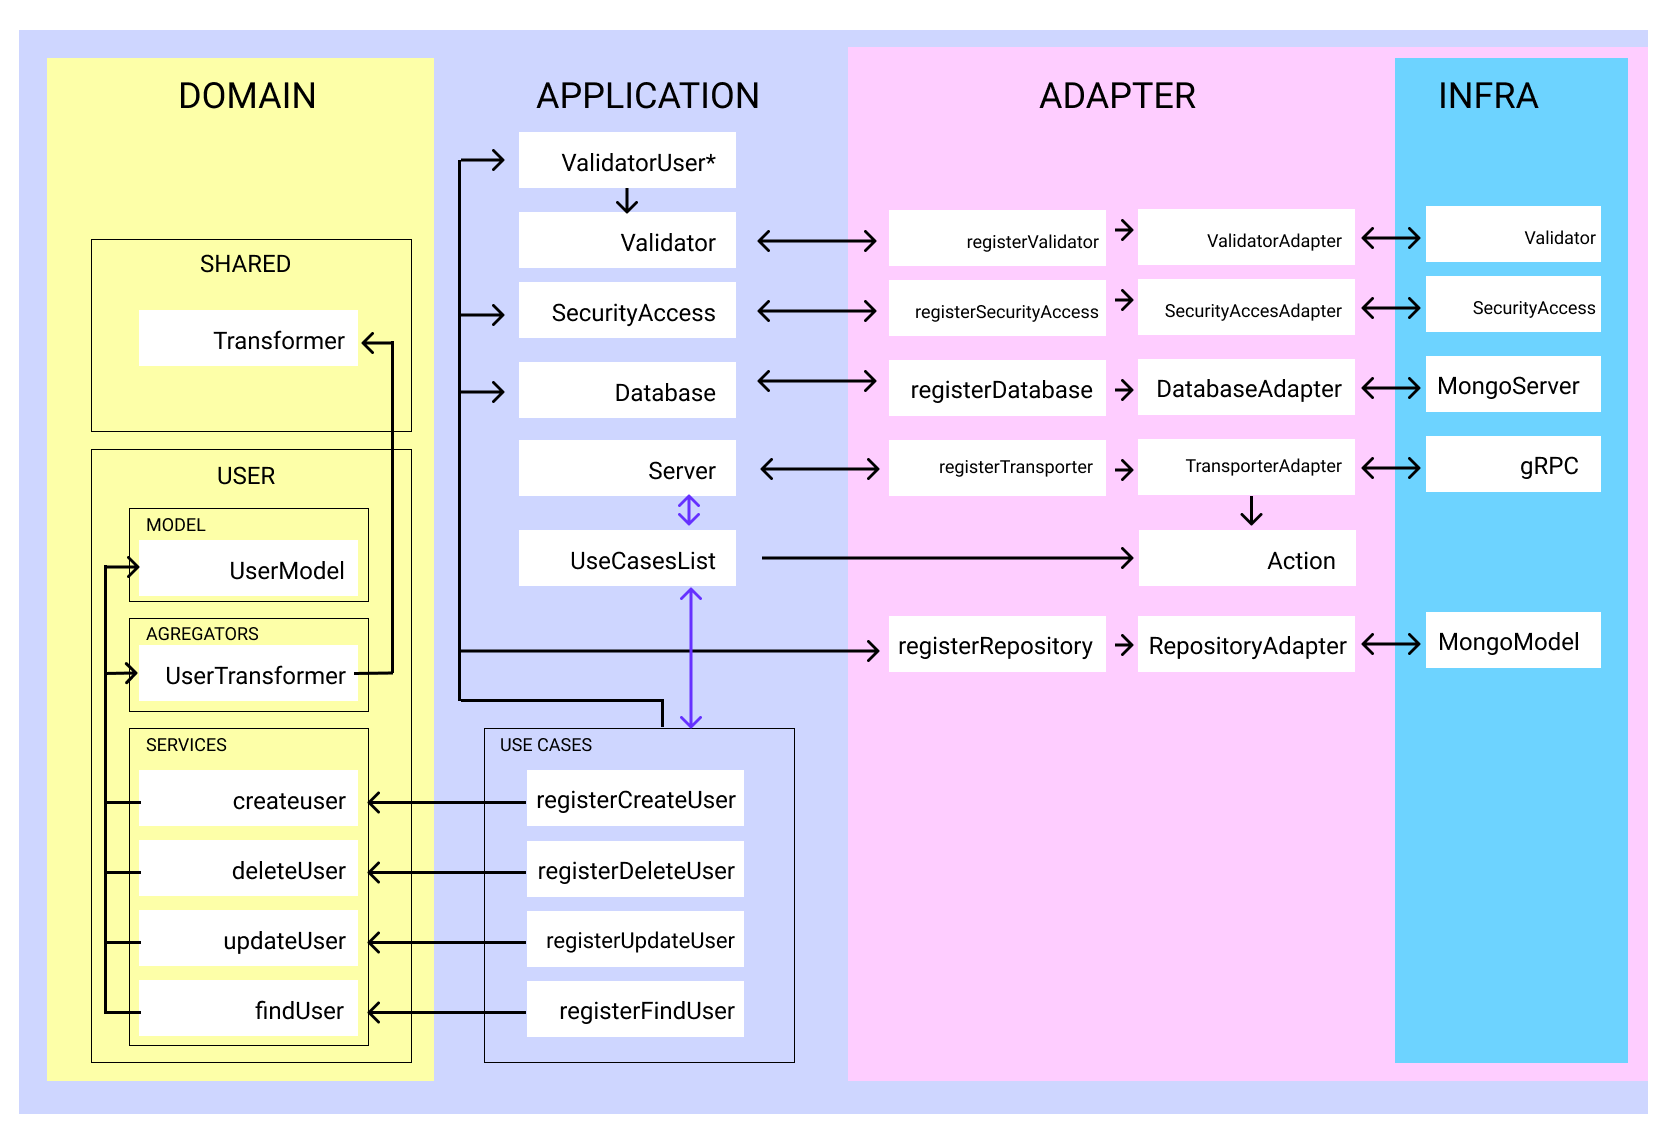
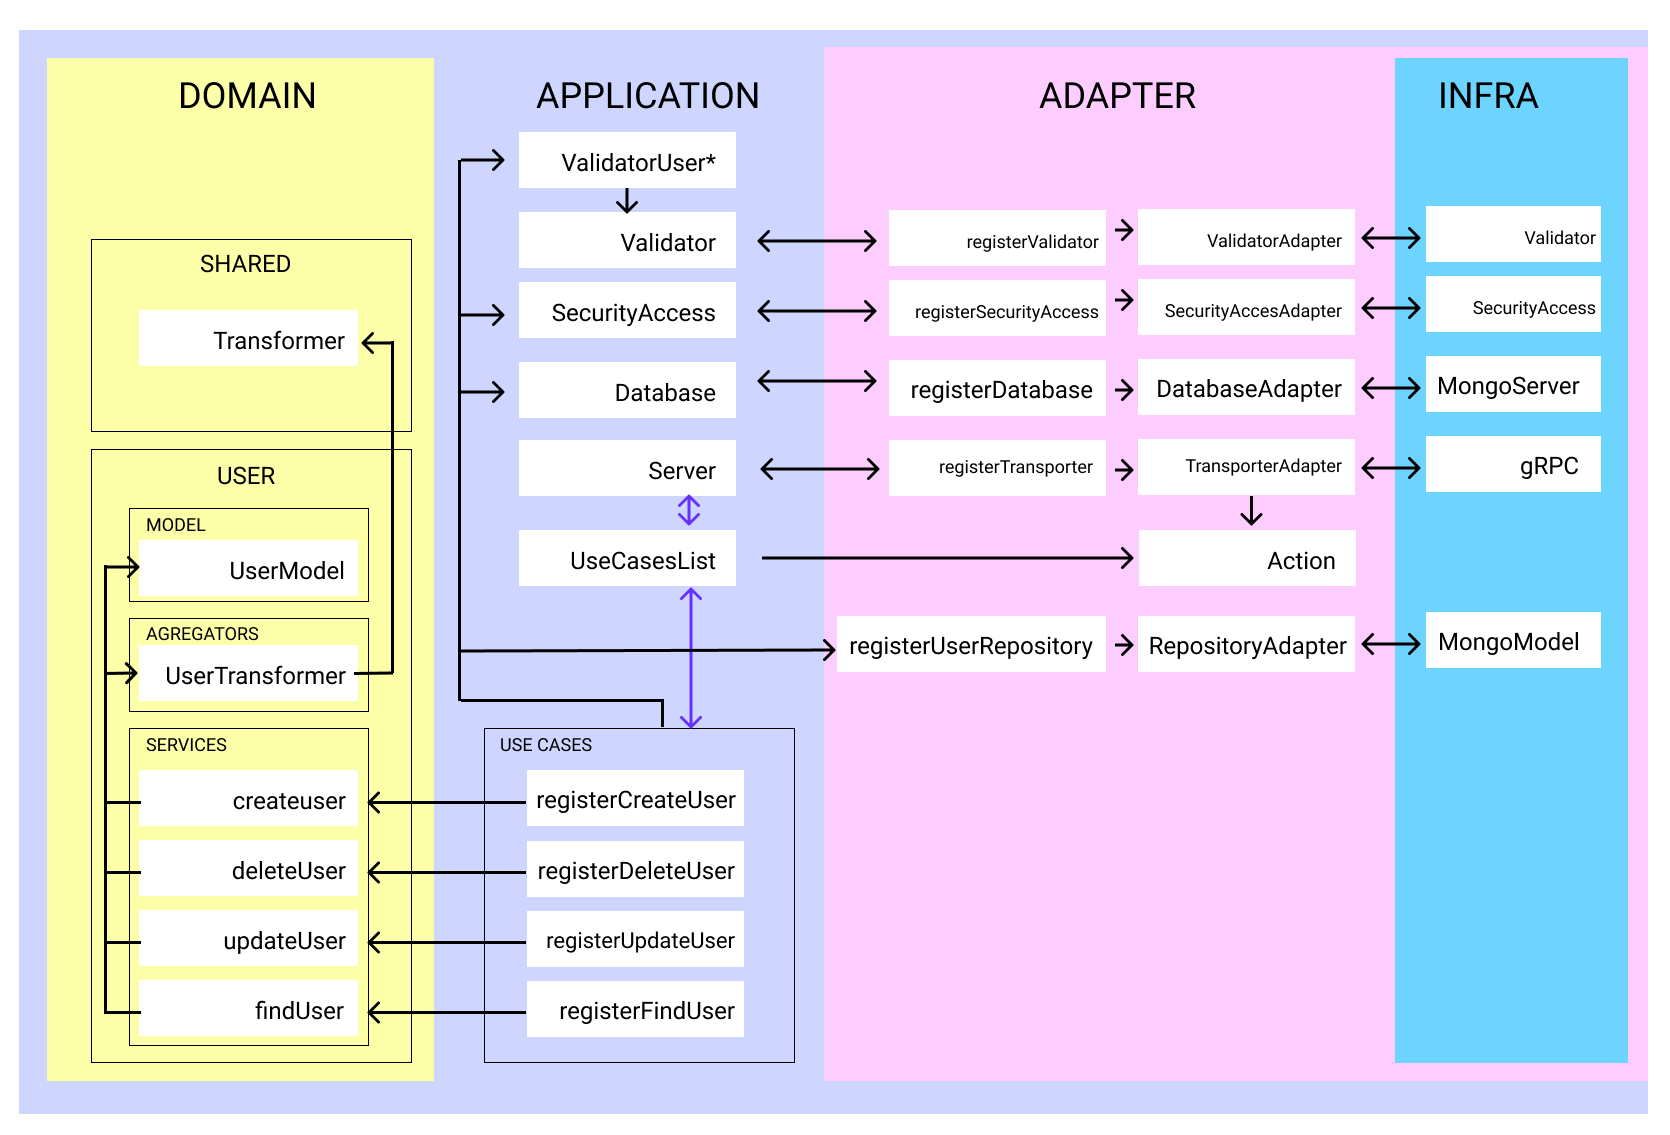
reorganize database project

Changed region(s): [[0.4048, 0.0308, 0.5916, 0.9559]]

diff --git a/src/application/application.ts b/src/application/application.ts
@@ -5,14 +5,17 @@ import {RepositoryAdapter} from '../adapters/interfaces/db/repository';
 import { Validator } from 'src/adapters/interfaces/validator';
 
 export class Application {
-  private repository: RepositoryAdapter | null = null;
   private useCaseList: Map<string, Action> = new Map();
-  private db: unknown | null = null;
   private securityAccess: SecurityAccess | null = null;
   private validator: Validator | null = null;
-
-  connectDatabase(db: unknown) {
-    this.db = db;
+  private userRepository: RepositoryAdapter | null = null;
+  private database: any | null = null;
+  
+  setDatabase(database: any) {
+    this.database = database
+  }
+  getDatabase(){
+    return this.database
   }
   startServer(server: ProtocolServerAdapter, config: unknown) {
     server.create(this.useCaseList, config, this.securityAccess);
@@ -29,11 +32,10 @@ export class Application {
   setSecurityAccess(securityAccess: SecurityAccess) {
     this.securityAccess = securityAccess;
   }
-  setRepository(repository: RepositoryAdapter) {
-    this.repository = repository;
-    this.repository.setDB(this.db);
+  setUserRepository(userRepository: any) {
+    this.userRepository = userRepository
   }
-  getRepository(): RepositoryAdapter {
-    return this.repository;
+  getUserRepository(): any {
+    return this.userRepository
   }
 }

diff --git a/src/application/start.ts b/src/application/start.ts
@@ -5,7 +5,7 @@ import {register as registerValidate} from '../adapters/registers/validate';
 import {register as registerServer} from '../adapters/registers/serverHTTP';
 // import {register as registerServer} from '../adapters/registers/serverGRPC';
 import {register as registerDatabase} from '../adapters/registers/dbMongo';
-import {register as registerRepository} from '../adapters/registers/repositoryMongo';
+import {register as registerUserRepository} from '../adapters/registers/userRepository';
 import {register as registerCreateUser} from './usecases/registerCreateUser';
 import {register as registerDeleteUser} from './usecases/registerDeleteUser';
 
@@ -14,7 +14,7 @@ export const start = async () => {
   app = registerSecurityAccess(app);
   app = registerValidate(app);
   app = await registerDatabase(app);
-  app = registerRepository(app);
+  app = registerUserRepository(app);
   app = registerCreateUser(app);
   app = registerDeleteUser(app);
   registerServer(app);

diff --git a/src/application/usecases/user/createUser.ts b/src/application/usecases/user/createUser.ts
@@ -4,7 +4,6 @@ import {
   CreateUserParams,
 } from '../../../domain/user/services/createUser';
 import {ValidateParamsCreateUser} from './validations/validateParamsCreateUser';
-import {UserModel} from '../../../domain/user/entities/user';
 import { Validator } from 'src/adapters/interfaces/validator';
 
 export class CreateUser implements CreateUserServiceType {
@@ -14,7 +13,6 @@ export class CreateUser implements CreateUserServiceType {
   constructor(repository: RepositoryAdapter, validator: Validator) {
     this.validateParamsCreateUser = new ValidateParamsCreateUser(validator)
     this.repository = repository;
-    this.repository.createRepository('User', UserModel);
   }
   async create(data: CreateUserParams): Promise<unknown> {
     this.validateParamsCreateUser.validate(data)

diff --git a/src/adapters/registers/userRepository/index.ts b/src/adapters/registers/userRepository/index.ts
@@ -1,0 +1,10 @@
+import {UserModel} from '../../../domain/user/entities/user';
+import {User} from '../../../domain/user/valueObjects/user';
+import {Application} from 'src/application/application';
+import {MongoRepository} from '../../../infrastructure/mongodb/repository';
+
+export const register = (app: Application): Application  =>{
+  const UserRepository = new MongoRepository(User.single, UserModel, app.getDatabase())
+  app.setUserRepository(UserRepository);
+  return app
+}

diff --git a/src/application/usecases/registerCreateUser.ts b/src/application/usecases/registerCreateUser.ts
@@ -4,7 +4,7 @@ import {CreateUser} from './user/createUser';
 import {CreateUserParams} from '../../domain/user/services/createUser';
 
 export const register = (app: Application): Application => {
-  const createUser = new CreateUser(app.getRepository(), app.getValidator());
+  const createUser = new CreateUser(app.getUserRepository(), app.getValidator());
   const action = {
     async run(data: unknown): Promise<unknown> {
       if (typeof data === 'string') {

diff --git a/src/application/usecases/registerDeleteUser.ts b/src/application/usecases/registerDeleteUser.ts
@@ -4,7 +4,7 @@ import {DeleteUser} from './user/deleteUser';
 import {DeleteUserParams} from '../../domain/user/services/deleteUser';
 
 export const register = (app: Application): Application => {
-  const createUser = new DeleteUser(app.getRepository());
+  const createUser = new DeleteUser(app.getUserRepository());
   const action = {
     async run(data: unknown): Promise<unknown> {
       const jsonData = JSON.parse(data as string);

diff --git a/src/infrastructure/mongodb/repository.ts b/src/infrastructure/mongodb/repository.ts
@@ -7,6 +7,10 @@ let MongoModel: any | null = null;
 export class MongoRepository implements RepositoryAdapter {
   transformer: unknown;
   private db: Mongoose | null = null;
+  constructor(repository: string, schema: any, db: Mongoose){
+    this.setDB(db);
+    this.createRepository(repository, schema);
+  }
   setDB(db: Mongoose) {
     this.db = db;
   }

diff --git a/src/adapters/registers/dbMongo/index.ts b/src/adapters/registers/dbMongo/index.ts
@@ -12,6 +12,6 @@ export const register = async (app: Application): Promise<Application> => {
       useUnifiedTopology: true,
     },
   });
-  app.connectDatabase(db);
+  app.setDatabase(db)
   return app;
 };

diff --git a/src/domain/user/valueObjects/user.ts b/src/domain/user/valueObjects/user.ts
@@ -1,0 +1,4 @@
+export const User ={
+  single: 'User',
+  plural: 'Users'
+}

diff --git a/README.md b/README.md
@@ -1,8 +1,7 @@
 # Auth Microservice using DDD
 
-This is a simple microservice using DDD architecture.
-
-### Features
+This is a microservice using DDD architecture to storage User information.
+### Tecnologies
 
 * Protocol GRPC
 * MongoDB
